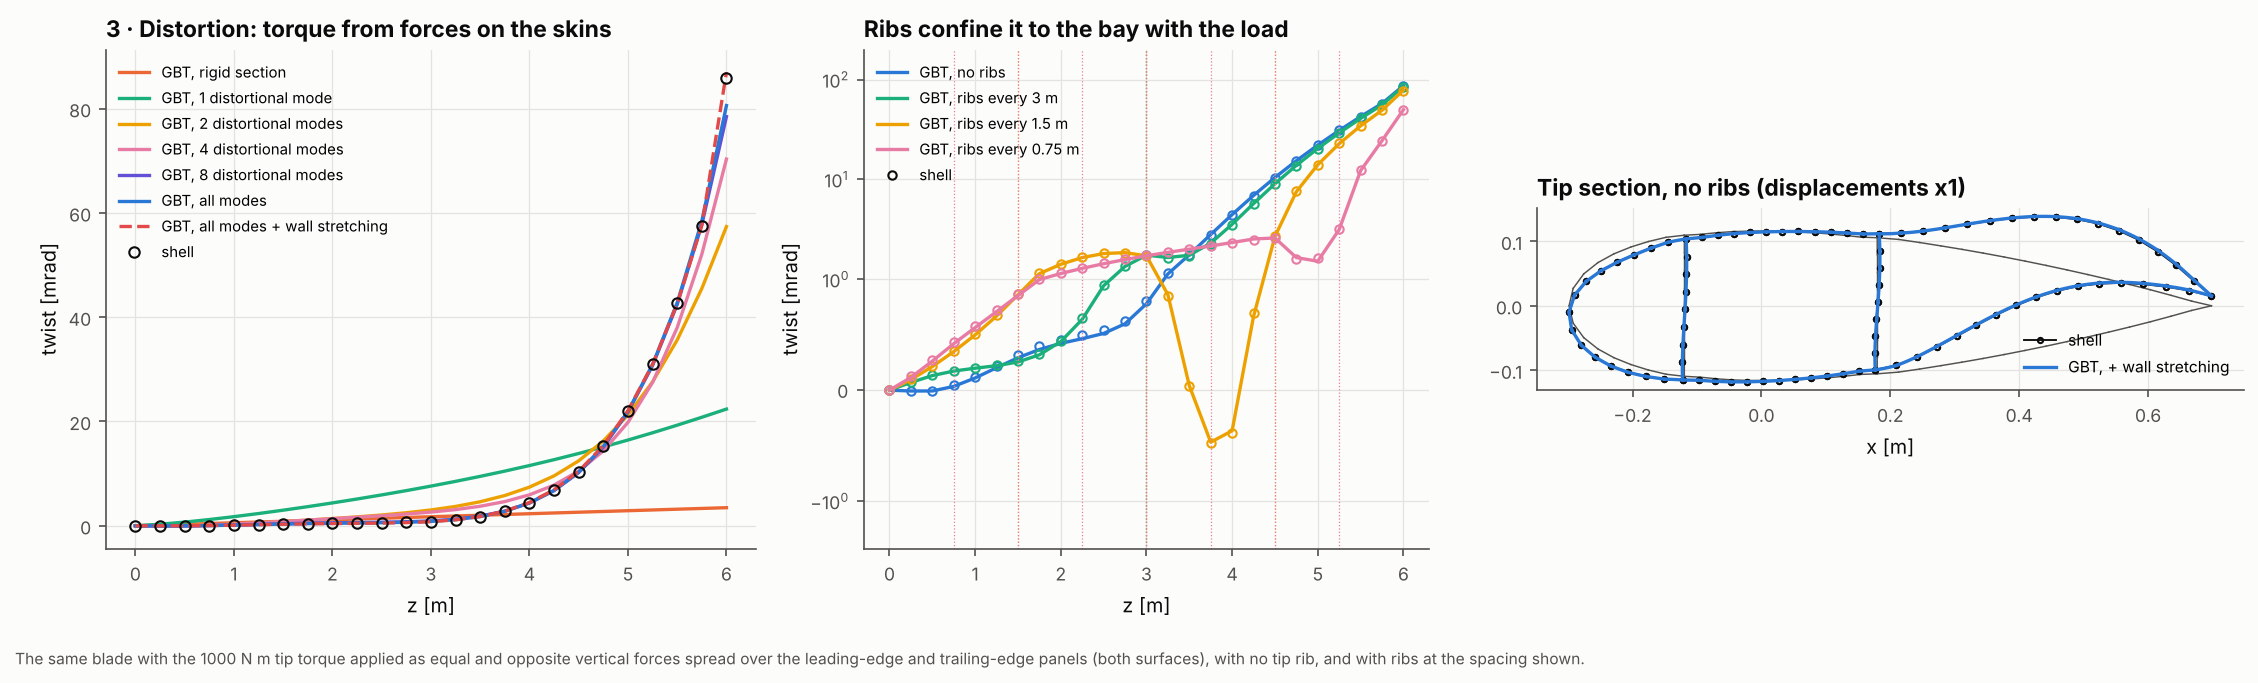
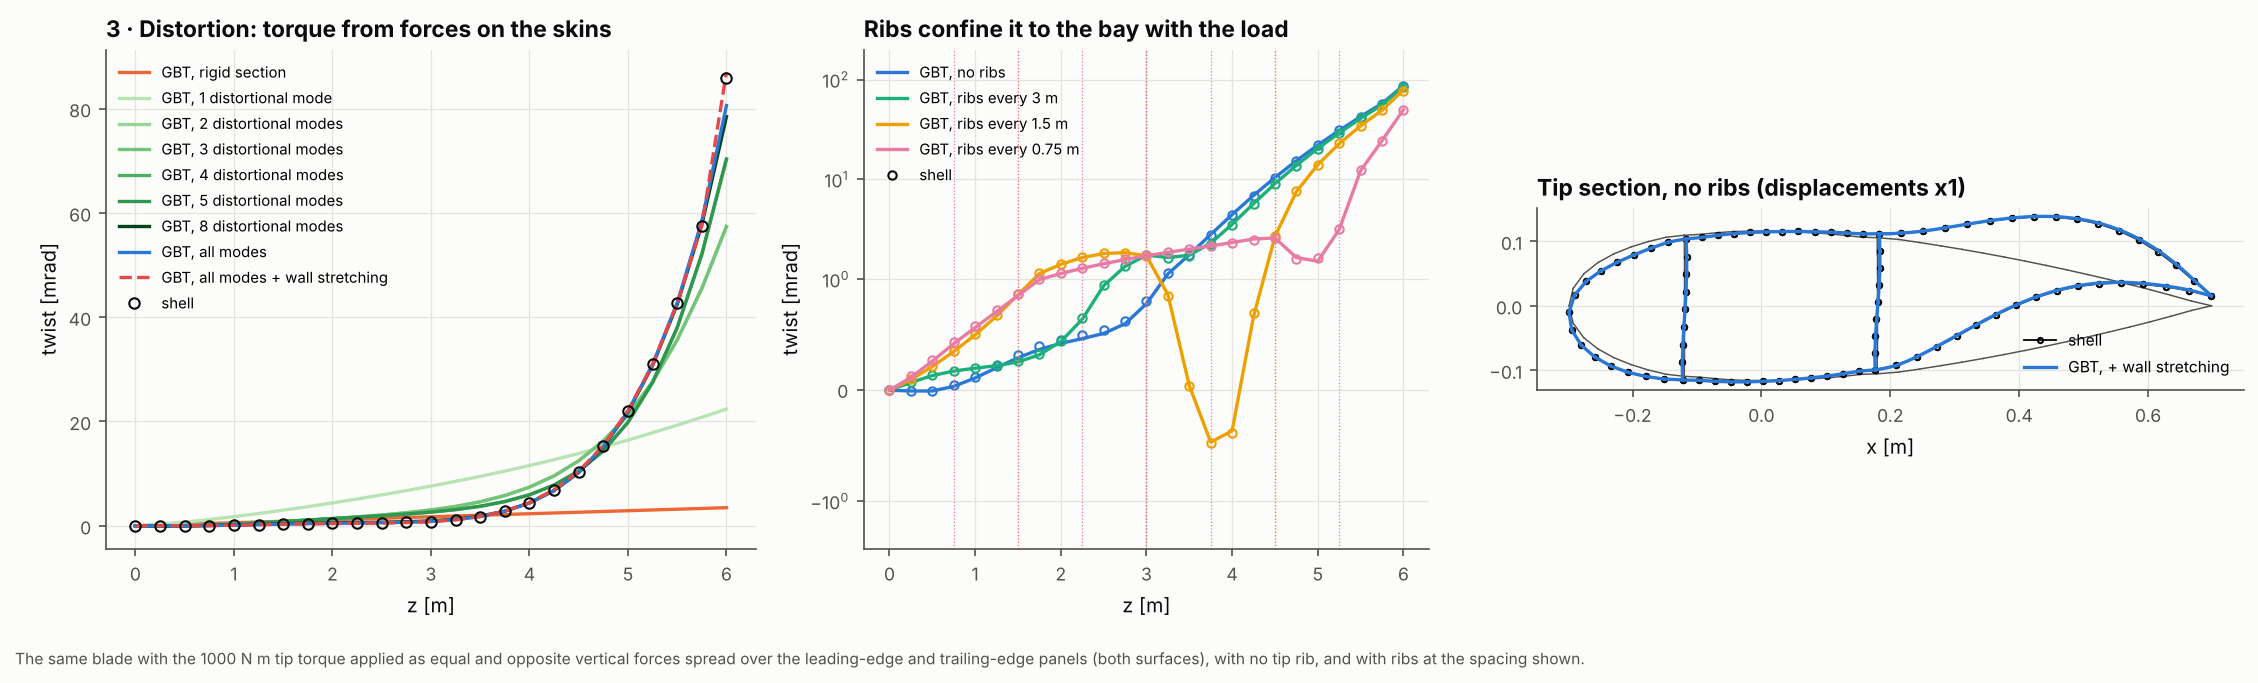
Examples 27 and 28: show distortional modes 1 to 5
Section figures now draw the five softest distortional modes with the
stiffness spectrum, and the force-couple convergence studies step through
1 to 5 modes one at a time.

diff --git a/examples/28_blade_torsion_hierarchy/blade_torsion_hierarchy.py b/examples/28_blade_torsion_hierarchy/blade_torsion_hierarchy.py
@@ -44,6 +44,7 @@ WEBS = [ShearWeb("web_fwd", 0.18, 4), ShearWeb("web_aft", 0.48, 4)]
 TORQUE = 1.0e3  # N m
 RIB_SPACINGS = [None, 3.0, 1.5, 0.75]
 N_GBT = 24  # GBT elements along the span
+N_SHOWN_MODES = 5  # distortional mode shapes drawn in the section figure
 
 
 def laminates(lib):
@@ -157,7 +158,7 @@ def main():
     # ---------------------------------------------------------------- 3. distortion: skin force couple
     # GBT levels: 0 = rigid section, n = n distortional modes, None = all, "ext" = all + wall stretching
     couple = {}
-    mode_counts = (0, 1, 2, 4, 8, None, "ext")
+    mode_counts = (0, 1, 2, 3, 4, 5, 8, None, "ext")
     modes_ext = GeneralizedBeam(sec, LENGTH, 2, "full", None, extensible=True).modes
 
     def level(n, ribs):
@@ -181,8 +182,11 @@ def main():
                           for n, g in gbt.items()))
 
     # ================================================================ figure 1: the section
-    fig, axes = plt.subplots(2, 3, figsize=(15, 5.6))
-    ax = axes[0, 0]
+    fig = plt.figure(figsize=(15, 4.6))
+    upper, lower = fig.subfigures(2, 1, height_ratios=[1.35, 0.65])
+    top = list(upper.subplots(1, 3, gridspec_kw={"wspace": 0.5}))
+    mode_axes = list(lower.subplots(1, N_SHOWN_MODES, sharex=True, sharey=True))
+    ax = top[0]
     qmax = np.max(np.abs(sec.shear_flow))
     for k in range(len(sec.walls)):
         a, b = sec.points[sec.start[k]], sec.points[sec.end[k]]
@@ -199,7 +203,7 @@ def main():
     ax.set_aspect("equal")
     ax.set_title("Saint-Venant shear flow in three cells", loc="left")
     ax.legend(loc="upper right", fontsize=7.5, ncol=1)
-    ax = axes[0, 1]
+    ax = top[1]
     om = sec.omega
     vmax = np.max(np.abs(om))
     for k in range(len(sec.walls)):
@@ -210,15 +214,18 @@ def main():
     sm = plt.cm.ScalarMappable(cmap=DIVERGING, norm=plt.Normalize(-vmax * 1e3, vmax * 1e3))
     fig.colorbar(sm, ax=ax, fraction=0.03, pad=0.02, label="ω [10⁻³ m²]")
     ax.set_aspect("equal")
-    ax.set_title("Warping function ω about the shear centre", loc="left")
-    ax = axes[0, 2]
+    ax.set_title("Warping function ω", loc="left")
+    ax = top[2]
     k_d = modes_all.all_distortional_stiffness
     ax.semilogy(np.arange(1, len(k_d) + 1), k_d, ".", color=SERIES[0], ms=4)
+    ax.semilogy(np.arange(1, N_SHOWN_MODES + 1), k_d[:N_SHOWN_MODES], "o", color=SERIES[0], mfc="none", ms=7,
+                label=f"modes 1 to {N_SHOWN_MODES}, shown below")
+    ax.legend(fontsize=7.5)
     ax.set_xlabel("distortional mode")
     ax.set_ylabel("transverse bending stiffness")
     ax.set_title(f"{len(k_d)} distortional modes, softest first", loc="left")
     base = modes_all.wall_points()
-    for c, ax in enumerate(axes[1]):
+    for c, ax in enumerate(mode_axes):
         shape = modes_all.in_plane_shape(3 + c)
         for p0, du in zip(base, shape):
             ax.plot(p0[:, 0], p0[:, 1], color=TEXT_SECONDARY, lw=0.7)
@@ -226,7 +233,6 @@ def main():
         ax.set_aspect("equal")
         ax.set_title(f"Distortional mode {c + 1}", loc="left")
         ax.set_xlabel("x [m]")
-    fig.tight_layout()
     save(fig, __file__, "blade_torsion_section.png")
 
     # ================================================================ figure 2: Saint-Venant and bimoment
@@ -291,8 +297,8 @@ def main():
     fig, axes = plt.subplots(1, 3, figsize=(15, 4.3), gridspec_kw={"width_ratios": [1.15, 1.0, 1.25]})
     ax = axes[0]
     tw, gbt, s_c = couple[None]
-    colours = [SERIES[1], SERIES[2], SERIES[3], SERIES[4], SERIES[6], SERIES[0], SERIES[7]]
-    for (n, gs), colour in zip(gbt.items(), colours):
+    for n, gs in gbt.items():
+        colour = {0: SERIES[1], None: SERIES[0], "ext": SERIES[7]}.get(n) or plt.cm.Greens(0.3 + 0.7 * (n - 1) / 7)
         ax.plot(zs, 1e3 * gs.mean_twist(zs), color=colour, lw=1.6, ls="--" if n == "ext" else "-",
                 label=f"GBT, {name(n)}" if n in (0, None, "ext") else f"GBT, {n} distortional mode{'s' if n > 1 else ''}")
     ax.plot(zs, 1e3 * tw, "o", color=REFERENCE, mfc="none", ms=5, label="shell")

diff --git a/examples/27_box_spar_torsion/box_spar_torsion.py b/examples/27_box_spar_torsion/box_spar_torsion.py
@@ -37,6 +37,7 @@ WIDTH, HEIGHT, LENGTH = 0.5, 0.25, 4.0
 N_WIDTH, N_HEIGHT, N_SPAN = 6, 3, 32
 TORQUE = 1.0e3  # N m
 RIB_SPACINGS = [None, 2.0, 1.0, 0.5]
+N_SHOWN_MODES = 5  # distortional mode shapes drawn in the section figure
 
 
 def laminates(lib):
@@ -125,7 +126,8 @@ def main():
         ribs_shell = [z for z in ribs if z < LENGTH - 1e-9]
         mesh_b, _, sol_b = shell_case(box, sec, ribs_shell, "couple")
         shell_tw = np.array([0.0] + [shell_section_motion(sol_b, mesh_b, sections[float(z)], float(z)).twist for z in zs[1:]])
-        gbt = {n: gbt_case(sec, ribs_shell, "couple", "full", n).mean_twist(zs) for n in (0, 1, 2, None)}
+        counts = (0, 1, 2, 3, 4, 5, None) if spacing is None else (0, 1, None)
+        gbt = {n: gbt_case(sec, ribs_shell, "couple", "full", n).mean_twist(zs) for n in counts}
         couple[spacing] = (shell_tw, gbt)
         label = "no ribs" if spacing is None else f"ribs every {spacing:g} m"
         print(f"Web couple, {label}: tip twist shell {1e3 * shell_tw[-1]:.4f} mrad; GBT " + ", ".join(
@@ -136,7 +138,10 @@ def main():
 
     # ================================================================ figure 1: the section
     modes = g_full.beam.modes
-    fig, axes = plt.subplots(1, 4, figsize=(15, 3.6))
+    fig = plt.figure(figsize=(15, 6.0))
+    upper, lower = fig.subfigures(2, 1, height_ratios=[1.15, 1.0])
+    axes = list(upper.subplots(1, 3, gridspec_kw={"wspace": 0.5}))
+    mode_axes = list(lower.subplots(1, N_SHOWN_MODES, sharex=True, sharey=True))
     ax = axes[0]
     for k, (a, b) in enumerate(sec.contour()):
         ax.plot([a[0], b[0]], [a[1], b[1]], color=SERIES[1] if sec.walls[k].name.startswith("cap") else SERIES[2],
@@ -167,7 +172,16 @@ def main():
     ax.set_aspect("equal")
     ax.set_title("Warping function ω (Benscoter)", loc="left")
     ax.set_xlabel("x [m]")
-    for idx, ax in zip((3, 4), axes[2:]):
+    ax = axes[2]
+    k_d = modes.all_distortional_stiffness
+    ax.semilogy(np.arange(1, len(k_d) + 1), k_d, ".", color=SERIES[0], ms=5)
+    ax.semilogy(np.arange(1, N_SHOWN_MODES + 1), k_d[:N_SHOWN_MODES], "o", color=SERIES[0], mfc="none", ms=8,
+                label=f"modes 1 to {N_SHOWN_MODES}, shown below")
+    ax.set_xlabel("distortional mode")
+    ax.set_ylabel("transverse bending stiffness")
+    ax.set_title(f"{len(k_d)} distortional modes, softest first", loc="left")
+    ax.legend(fontsize=7.5)
+    for idx, ax in zip(range(3, 3 + N_SHOWN_MODES), mode_axes):
         shape = modes.in_plane_shape(idx)
         base = modes.wall_points()
         scale = 0.08
@@ -179,7 +193,6 @@ def main():
         ax.set_xlabel("x [m]")
         ax.text(0.02, 0.02, f"stiffness {modes.all_distortional_stiffness[idx - 3]:.3g}", transform=ax.transAxes,
                 fontsize=7.5, color=TEXT_SECONDARY)
-    fig.tight_layout()
     save(fig, __file__, "box_spar_section.png")
 
     # ================================================================ figure 2: tip torque through a rib
@@ -246,8 +259,9 @@ def main():
     fig, axes = plt.subplots(1, 3, figsize=(15, 4.2), gridspec_kw={"width_ratios": [1.2, 1.0, 1.0]})
     ax = axes[0]
     shell_tw, gbt = couple[None]
-    for (n, tw), colour in zip(gbt.items(), (SERIES[1], SERIES[2], SERIES[3], SERIES[0])):
-        ax.plot(zs, 1e3 * tw, color=colour, label="GBT, rigid section" if n == 0 else
+    for n, tw in gbt.items():
+        colour = SERIES[1] if n == 0 else SERIES[0] if n is None else plt.cm.Greens(0.35 + 0.65 * (n - 1) / 4)
+        ax.plot(zs, 1e3 * tw, color=colour, lw=1.4, label="GBT, rigid section" if n == 0 else
                 f"GBT, {'all' if n is None else n} distortional mode{'s' if n != 1 else ''}")
     ax.plot(zs, 1e3 * shell_tw, "o", color=REFERENCE, mfc="none", ms=5, label="shell")
     ax.set_xlabel("z [m]")

diff --git a/examples/28_blade_torsion_hierarchy/README.md b/examples/28_blade_torsion_hierarchy/README.md
@@ -7,7 +7,7 @@ distort in their own plane. This example takes the three-cell section of example
 and adds each contribution in turn. Each layer is checked against a shell model of
 the same blade segment.
 
-![The section: Saint-Venant shear flows in the three cells, the warping function, and the softest distortional modes](figures/blade_torsion_section.png)
+![The section: Saint-Venant shear flows in the three cells, the warping function, and distortional modes 1 to 5, softest first](figures/blade_torsion_section.png)
 
 ![1 · Saint-Venant twist and GJ. 2 · The bimoment near the clamped root and the warping stresses round the skin](figures/blade_torsion_warping.png)
 
@@ -100,7 +100,9 @@ sits 8 mm aft of the pitch axis.
 | Rigid section | 2.89 | 3.46 |
 | 1 distortional mode | 16.44 | 22.38 |
 | 2 modes | 21.23 | 57.38 |
+| 3 modes | 21.24 | 57.40 |
 | 4 modes | 19.83 | 70.33 |
+| 5 modes | 19.83 | 70.34 |
 | 8 modes | 21.80 | 78.47 |
 | All 167 modes | 21.94 | 80.59 |
 | All modes + wall stretching | 22.06 | 86.98 |
@@ -116,8 +118,11 @@ sits 8 mm aft of the pitch axis.
 - Put into the skins instead of through a rib, the same torque twists the tip 25
   times more. Almost all of that is the section distorting near the load: the
   trailing-edge cell shears and the panels bow (right-hand panel).
-- The distortional modes converge in order. Eight modes give the twist 1 m from the
-  load within about 1%. At the loaded section itself, the skins also stretch round the
+- The distortional modes converge in order. Modes 1, 2 and 4 are antisymmetric and
+  carry the response: mode 1 racks the whole section, modes 2 and 4 add waves in the
+  trailing-edge panels. Modes 3 and 5 are symmetric (the trailing-edge panels breathe),
+  so the antisymmetric skin couple does almost no work on them and they change the twist
+  by under 0.05%. Eight modes give the twist 1 m from the load within about 1%. At the loaded section itself, the skins also stretch round the
   contour under the local loads. Adding that (the extensible walls) brings the tip
   within 1.4% of the shell. Classical inextensible GBT is 6% stiff there.
 - Ribs confine the distortion to the bay that carries the load (middle panel, logarithmic

diff --git a/examples/27_box_spar_torsion/README.md b/examples/27_box_spar_torsion/README.md
@@ -16,7 +16,7 @@ same box:
    adds the section's distortional modes as beam degrees of freedom: the box racking
    into a rhombus, the caps bowing. Ribs (diaphragms) stop them.
 
-![The section: Saint-Venant shear flow, the warping function and the two softest distortional modes](figures/box_spar_section.png)
+![The section: Saint-Venant shear flow, the warping function and distortional modes 1 to 5, softest first](figures/box_spar_section.png)
 
 ![Tip torque through a tip rib: twist lost to the warping restraint, bimoment near the root, and the warping stress resultant round the section](figures/box_spar_restrained_warping.png)
 
@@ -65,7 +65,7 @@ distortion.
 | Caps | [0₂/45/−45/−45/45/0₂] T300/5208, 8 × 0.5 mm |
 | Webs | [±45]s E-glass, 4 × 0.5 mm |
 | Shell | Flat Quad8 FSDT on the wall mid-surfaces: 32 along, 6 across each cap, 3 up each web |
-| GBT | 32 elements, graded towards the clamp and the ribs; full warping and all 33 distortional modes unless stated |
+| GBT | 32 elements, graded towards the clamp and the ribs; full warping and all 69 distortional modes unless stated |
 | Loads | 1 kN m at the tip, either through a tip rib (rigid in its plane, free to warp) or as equal and opposite vertical forces on the two webs with no rib |
 | Twist | The least-squares rotation of the section's nodes, measured the same way in the shell and GBT (an RBE3 reference node measures it the same way) |
 
@@ -122,6 +122,10 @@ the box centre.
 - Without ribs, the same torque introduced as forces on the webs twists the tip 26
   times more than through a rib. Nearly all of it is the rhombic distortion of the box,
   and the first GBT mode captures it alone. The rigid-section theories miss it.
+- Modes 1 to 5 one at a time (no ribs, tip twist): 1 mode 53.86, 2 to 4 modes 54.05,
+  5 modes 54.15, all modes 53.83 mrad, against 53.89 for the shell. Mode 1 is the
+  racking mode (top panel of the section figure). Modes 2 to 5 bow the walls, the load
+  does little work on them, and they move the twist by under 0.6%.
 - Ribs bring the response back towards the rigid section. GBT tracks the shell to
   within 1% at every rib spacing.
 
